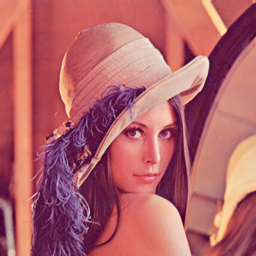
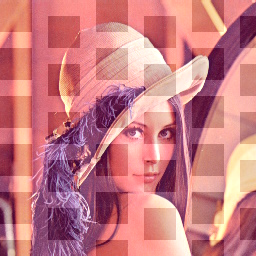
do not touch anything anymore.. im done

diff --git a/src/main.py b/src/main.py
@@ -312,13 +312,14 @@ def train(
     dct_alpha = nn.Parameter(torch.tensor(0.1, device=DEVICE, requires_grad=True))
 
     # Create optimizer with appropriate learning rate
-    optimiser = Adam([dwt_a1, dwt_a2, dwt_a3, dwt_a4, dct_alpha], lr=0.01)
+    optimiser = Adam([dwt_a1, dwt_a2, dwt_a3, dwt_a4, dct_alpha], lr=0.001)
 
     # Loss weights - giving more weight to the watermark loss
     parameters = {
         "pixel": 0.3,  # Visual quality preservation
-        "adversarial": 1.5,  # Adversarial loss for watermark detection
+        "adversarial": 0.5,  # Adversarial loss for watermark detection
         "dwt_weights": 0.8,  # DWT alphas weight
+        "watermark": 0.5,  # Watermark quality preservation
     }
 
     # Arrays to track loss and alpha values
@@ -338,6 +339,9 @@ def train(
     # dev stuff to cancel if values dont change
     stall_count = 0
     stall_count_max = 2
+
+    base_styled = performNST(content_tensor, style_tensor, iterations=5, mode="adain")
+    base_styled = base_styled.to(DEVICE)
 
     print("Beginning training...")
     for epoch in range(epochs):
@@ -371,17 +375,23 @@ def train(
         )
         styled = styled.to(DEVICE)
 
+        styled_extracted = extract_watermark_dct(
+            content_tensor, styled, alpha=dct_alpha.item()
+        )
+
         # get adversary prediction for if watermark exists
         prediction = adversary(content_tensor, styled)
 
-        # the ground truth ( watermark 100% exists) is 1.0, so initialise target for adversary to aim for
+        # the ground truth ( watermark 100% exists) is 0.0, so initialise target for adversary to aim for
         label = torch.ones_like(prediction, device=DEVICE)
 
         adversary_loss = torch.nn.functional.binary_cross_entropy(prediction, label)
         print("Watermark Adversary Loss: ", adversary_loss.item())
         # Calculate losses
-        pixel_loss = torch.nn.functional.mse_loss(content_tensor, watermarked)
-        # watermark_loss = torch.nn.functional.mse_loss(watermark_tensor, extracted)
+        pixel_loss = torch.nn.functional.mse_loss(watermarked, styled)
+        watermark_loss = torch.nn.functional.mse_loss(
+            watermark_tensor, styled_extracted
+        )
         # pixel_loss.requires_grad = True
         # watermark_loss.requires_grad = True
         # We want to minimize pixel loss and maximize watermark quality
@@ -389,8 +399,8 @@ def train(
         # fmt: off
         total_loss = (
             parameters["pixel"] * pixel_loss
-            # - parameters["watermark"] * (-watermark_loss)
-            * (parameters["adversarial"] * adversary_loss)
+            + parameters["watermark"] * (watermark_loss)
+            + (parameters["adversarial"] * adversary_loss)
         )
         # fmt: on
 
@@ -410,7 +420,7 @@ def train(
                 target_alpha = alphas[i - 1] * parameters["dwt_weights"]
                 penalty += (alphas[i] - target_alpha) * 2
 
-            print("Penalty: ", penalty.item())
+            # print("Penalty: ", penalty.item())
             return penalty
 
         # add weighting to dwt alphas to ensure model understands the weighting for each alpha
@@ -419,18 +429,6 @@ def train(
         regLoss = relative_decay_loss([dwt_a1, dwt_a2, dwt_a3, dwt_a4])
         # print(f"regLoss: {regLoss.item()}")
         total_loss += regLoss
-
-        dwt_a1.backward()
-        dwt_a2.backward()
-        dwt_a3.backward()
-        dwt_a4.backward()
-        # dwt_alphas.backward()
-
-        # Verify gradients exist before optimization step
-        if dwt_a1.grad is None or dct_alpha.grad is None:
-            print(f"Epoch {epoch+1}: No gradients - gradient flow issue detected")
-            print(f"dwt_alphas.grad: {dwt_a1.grad}")
-            print(f"dct_alpha.grad: {dct_alpha.grad}")
 
         # Update parameters
         optimiser.step()
@@ -464,18 +462,17 @@ def train(
         # Store history
         history["total_loss"].append(total_loss.item())
         history["pixel_loss"].append(pixel_loss.item())
-        history["watermark_loss"].append(adversary_loss.item())
+        history["watermark_loss"].append(watermark_loss.item())
         history["adversarial_loss"].append(adversary_loss.item())
         history["dct_alpha"].append(dct_alpha.item())
         history["dwt_alpha"].append(
             [dwt_a1.item(), dwt_a2.item(), dwt_a3.item(), dwt_a4.item()]
         )
-        # losses.append(total_loss.item())
-        # dwt_alpha_history.append(
-        #     [dwt_a1.item(), dwt_a2.item(), dwt_a3.item(), dwt_a4.item()]
-        # )
-        # dct_alpha_history.append(dct_alpha.item())
 
+        print(f"Epoch {epoch + 1}/{epochs} - Total Loss: {total_loss.item():.6f}")
+        print(f"Pixel Loss: {pixel_loss.item():.6f}")
+        print(f"Watermark Loss: {watermark_loss.item():.6f}")
+        print(f"Adversarial Loss: {adversary_loss.item():.6f}")
         # Print progress regularly
         if (epoch + 1) % 10 == 0:
             print(
@@ -487,6 +484,31 @@ def train(
                 f"DCT Alpha: {dct_alpha.item():.6f}"
             )
 
+        # Save styled watermark and other intermediate results
+        temp_dir = Path("../temp")
+        temp_dir.mkdir(parents=True, exist_ok=True)
+
+        styled_image_path = temp_dir / f"styled_watermark_epoch_{epoch + 1}.png"
+        watermarked_image_path = temp_dir / f"watermarked_epoch_{epoch + 1}.png"
+        extracted_watermark_path = (
+            temp_dir / f"extracted_watermark_epoch_{epoch + 1}.png"
+        )
+
+        # Save styled image
+        styled_image = tensorToImage(styled)
+        styled_image.save(styled_image_path)
+
+        # Save watermarked image
+        watermarked_image = tensorToImage(watermarked)
+        watermarked_image.save(watermarked_image_path)
+
+        # Save extracted watermark
+        extracted_watermark_image = tensorToImage(styled_extracted)
+        extracted_watermark_image.save(extracted_watermark_path)
+
+        print(f"Saved styled image to {styled_image_path}")
+        print(f"Saved watermarked image to {watermarked_image_path}")
+        print(f"Saved extracted watermark to {extracted_watermark_path}")
     # Plot the training progress
     if epochs > 0:
         print("epoch history")
@@ -504,6 +526,35 @@ def train(
             dct_alpha=history["dct_alpha"],
             dwt_alpha=history["dwt_alpha"],
         )
+
+        # Plot styled image, styled extracted watermark, and styled without watermark
+        try:
+            plt.figure(figsize=(12, 8))
+
+            # Styled image
+            plt.subplot(1, 3, 1)
+            plt.imshow(tensorToImage(styled).convert("RGB"))
+            plt.title("Styled Image")
+            plt.axis("off")
+
+            # Styled extracted watermark
+            plt.subplot(1, 3, 2)
+            plt.imshow(tensorToImage(styled_extracted).convert("RGB"))
+            plt.title("Styled Extracted Watermark")
+            plt.axis("off")
+
+            # Styled without watermark
+            plt.subplot(1, 3, 3)
+            styled_without_watermark = tensorToImage(styled - watermarked)
+            plt.imshow(styled_without_watermark.convert("RGB"))
+            plt.title("Styled Without Watermark")
+            plt.axis("off")
+
+            plt.tight_layout()
+            plt.savefig("styled_images_comparison.png")
+            plt.show()
+        except Exception as e:
+            print(f"Error plotting styled images: {e}")
         #     plt.ion()  # Turn on interactive mode
         #     plt.figure(figsize=(12, 8))
 
@@ -571,7 +622,7 @@ def main():
     styleTensor: Tensor = preprocessImage(STYLE_IMAGES_LIST[2], DEVICE).to(DEVICE)
 
     dwt_alphas, dct_alpha = train(
-        contentTensor, watermarkTensor, styleTensor, epochs=200
+        contentTensor, watermarkTensor, styleTensor, epochs=10
     )
 
     # perform DCT DWT watermark embedding

diff --git a/documentation/second_test.md b/documentation/second_test.md
@@ -12,6 +12,11 @@
 
 ## Full ADAIN optimisation
 
+the style
+![alt text](STYLE.jpg)
+
+
+
 ### Related files:
 | Image                          | Description                  |
 |--------------------------------|------------------------------|
@@ -62,3 +67,18 @@ parameters = {
 ![alt text](ADAIN_loss_breakdown.png)
 
 * The adversarial loss ( detection of watermark ) shows to be decreasing, it should be increasing. Indicating the model isn't detecting the watermark ( its confident at start as theirs more overall visibility, making the watermark less distorted)
+
+
+
+* model shows no preservation of watermark using dct coefficiets
+
+
+## Progrss
+
+* comparing the feature maps of extracted watermarks. obtained from an extractor network
+* shows more visibility, but pattern is actually preserved
+
+![alt text](ADAIN_all.png)
+![alt text](ADAIN_loss_2.png)
+![alt text](ADAIN_styled_watermarked_features_2.png)
+![alt text](ADAIN_watermarked_features_2.png)
